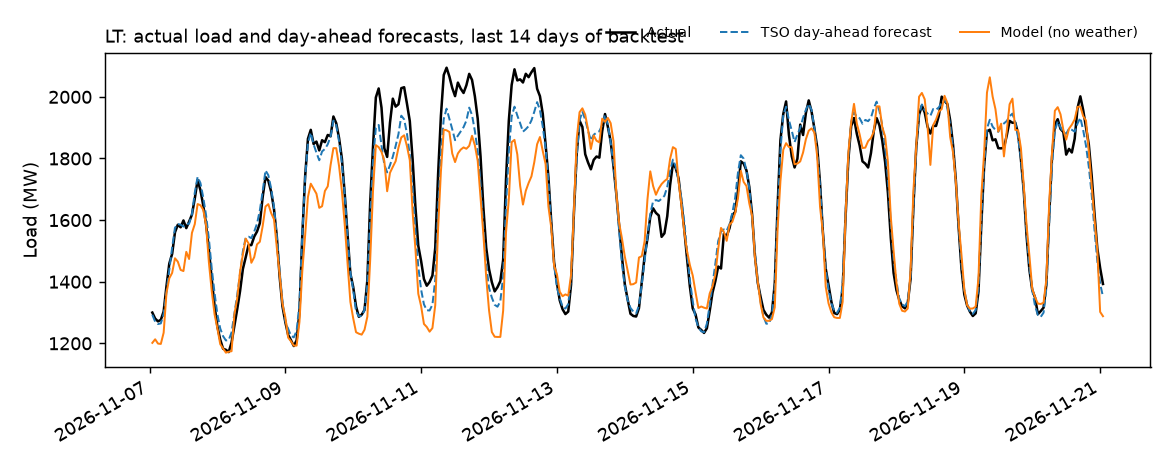
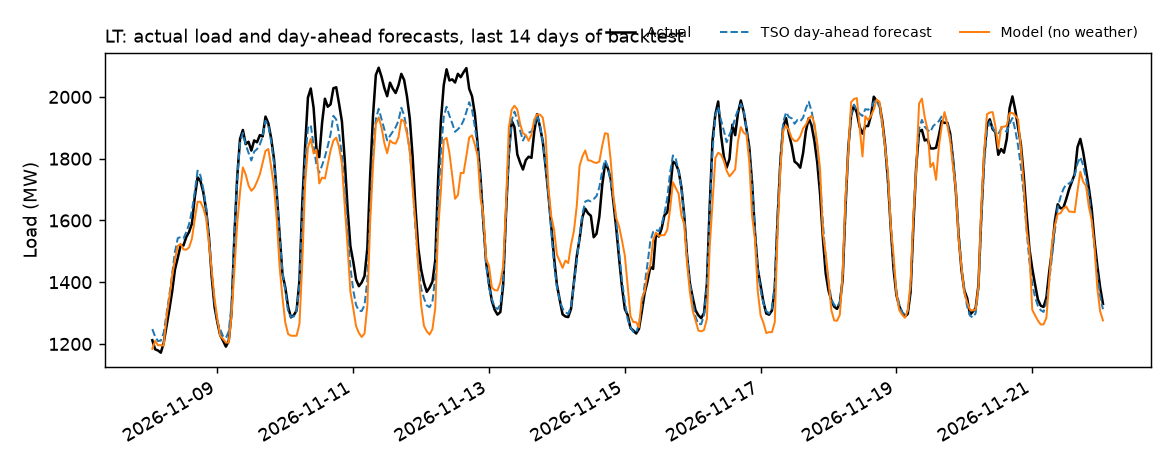
Data refresh 2026-11-22

diff --git a/reports/LT.md b/reports/LT.md
@@ -1,14 +1,14 @@
 # LT electricity report
 
-Updated 2026-11-21 16:51 UTC by the scheduled pipeline. Data: ENTSO-E Transparency Platform.
+Updated 2026-11-22 17:14 UTC by the scheduled pipeline. Data: ENTSO-E Transparency Platform.
 
 ## Day-ahead load forecast, last 8 weeks
 
 | method                      |   hours |   mae_mw |   mape_pct |   bias_mw |
 |:----------------------------|--------:|---------:|-----------:|----------:|
-| Model (no weather)          |    1344 |    63.97 |       4.07 |    -27.53 |
-| Naive (same hour last week) |    1344 |    81.95 |       5.25 |    -31.36 |
-| TSO day-ahead forecast      |    1344 |   112.68 |       7.4  |    -94.31 |
+| Model (no weather)          |    1344 |    67.62 |       4.33 |    -28.88 |
+| Naive (same hour last week) |    1344 |    81.95 |       5.24 |    -31.78 |
+| TSO day-ahead forecast      |    1344 |   110.8  |       7.26 |    -92.25 |
 
 ### Week by week
 
@@ -16,14 +16,14 @@ The table above averages over all backtest weeks. A forecast can come out ahead 
 
 | week_from   |   hours |   Model MAE (MW) |   Model MAPE (%) |   Model bias (MW) |   TSO MAE (MW) |   TSO MAPE (%) |   TSO bias (MW) |
 |:------------|--------:|-----------------:|-----------------:|------------------:|---------------:|---------------:|----------------:|
-| 2026-09-26  |     168 |             52.8 |              3.8 |              16.9 |          142.1 |            9.9 |          -139.8 |
-| 2026-10-03  |     168 |             58.9 |              3.8 |             -31.9 |          210.8 |           13.9 |          -206.6 |
-| 2026-10-10  |     168 |             73.7 |              4.6 |             -68.6 |          143.8 |            9.5 |          -123   |
-| 2026-10-17  |     168 |             47.7 |              2.9 |             -30.7 |          175.5 |           11.2 |          -170.9 |
-| 2026-10-24  |     168 |             57.7 |              4   |               8   |          114.6 |            7.8 |          -103.6 |
-| 2026-10-31  |     168 |             62.5 |              4.1 |             -42.4 |           33.3 |            2.2 |             2.9 |
-| 2026-11-07  |     168 |            109.9 |              6.3 |             -90.6 |           51.7 |            2.9 |           -29.7 |
-| 2026-11-14  |     168 |             48.6 |              3   |              19.1 |           29.6 |            1.8 |            16.3 |
+| 2026-09-27  |     168 |             62.6 |              4.5 |              31.8 |          151.5 |           10.5 |          -149.7 |
+| 2026-10-04  |     168 |             61.5 |              4   |             -35.1 |          214.4 |           14.2 |          -210.4 |
+| 2026-10-11  |     168 |             70.9 |              4.5 |             -63.3 |          127.2 |            8.3 |          -105.8 |
+| 2026-10-18  |     168 |             61.6 |              4   |             -25.1 |          179.5 |           11.6 |          -175.5 |
+| 2026-10-25  |     168 |             47.9 |              3.2 |             -10.6 |          102.2 |            6.8 |           -77.4 |
+| 2026-11-01  |     168 |             73.8 |              4.8 |             -61.9 |           29.2 |            1.9 |            -2.6 |
+| 2026-11-08  |     168 |            116.5 |              6.8 |             -46.9 |           53.4 |            3   |           -27.3 |
+| 2026-11-15  |     168 |             46.2 |              2.8 |             -19.9 |           29.2 |            1.7 |            10.5 |
 
 ![Forecasts](LT_forecast.png)
 
@@ -31,24 +31,24 @@ The table above averages over all backtest weeks. A forecast can come out ahead 
 
 | local_date   |   energy_gwh |   peak_load_mw |   avg_price_eur_mwh |   negative_price_hours |   tso_forecast_mape_pct |
 |:-------------|-------------:|---------------:|--------------------:|-----------------------:|------------------------:|
-| 2026-11-14   |         36.6 |         1783.3 |                96.7 |                      0 |                     1.9 |
 | 2026-11-15   |         35.7 |         1790.7 |                49.6 |                      0 |                     1.6 |
 | 2026-11-16   |         40.7 |         1988.5 |               141.8 |                      0 |                     1.5 |
 | 2026-11-17   |         40.2 |         1931.3 |               223.5 |                      0 |                     2.9 |
 | 2026-11-18   |         41.4 |         2000.7 |               179.8 |                      0 |                     0.9 |
 | 2026-11-19   |         40.3 |         1922.1 |               229.1 |                      0 |                     1.3 |
 | 2026-11-20   |         40.9 |         2001.6 |               196.4 |                      0 |                     2   |
+| 2026-11-21   |         38.1 |         1864   |                52.7 |                      0 |                     1.9 |
 
 ![Daily](LT_daily.png)
 
 ## Data quality
 
-Generated 2026-11-21 16:51 UTC
+Generated 2026-11-22 17:14 UTC
 
 | Zone | Check | Result | Detail |
 |---|---|---|---|
-| LT | load is fresh | ✅ pass | latest actual load 2026-11-21 16:00 UTC (1 h old) |
+| LT | load is fresh | ✅ pass | latest actual load 2026-11-22 16:00 UTC (1 h old) |
 | LT | no gaps in actual load | ✅ pass | 0 missing hours, longest gap 0 h (last 30 days) |
-| LT | load within 100..5000 | ✅ pass | 0 of 720 hours outside range |
-| LT | price within -500..4000 | ✅ pass | 0 of 750 hours outside range |
+| LT | load within 100..5000 | ✅ pass | 0 of 719 hours outside range |
+| LT | price within -500..4000 | ✅ pass | 0 of 749 hours outside range |
 | LT | complete hours | ⚠ warn | 2 hours built from incomplete sub-hourly data |
